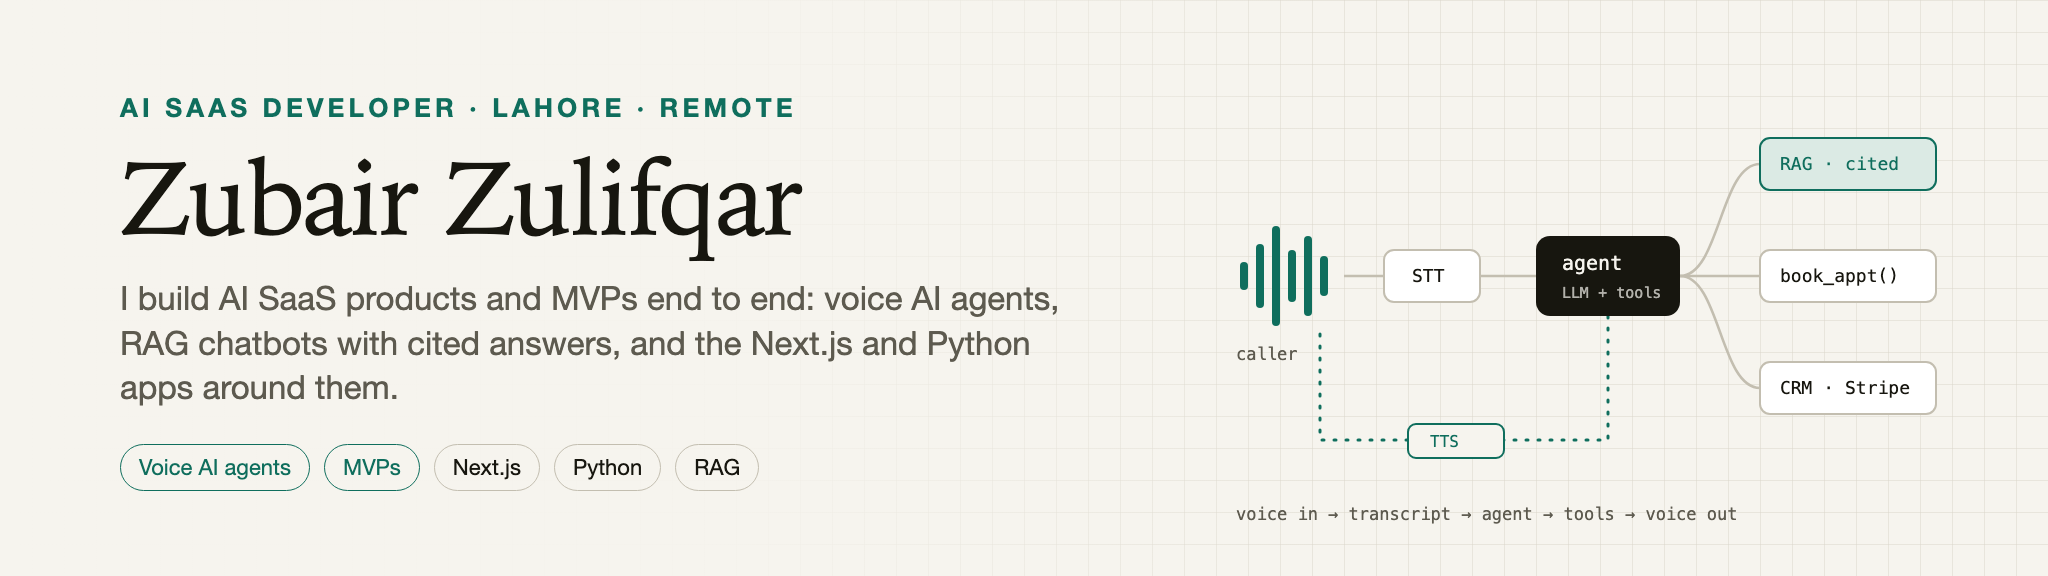
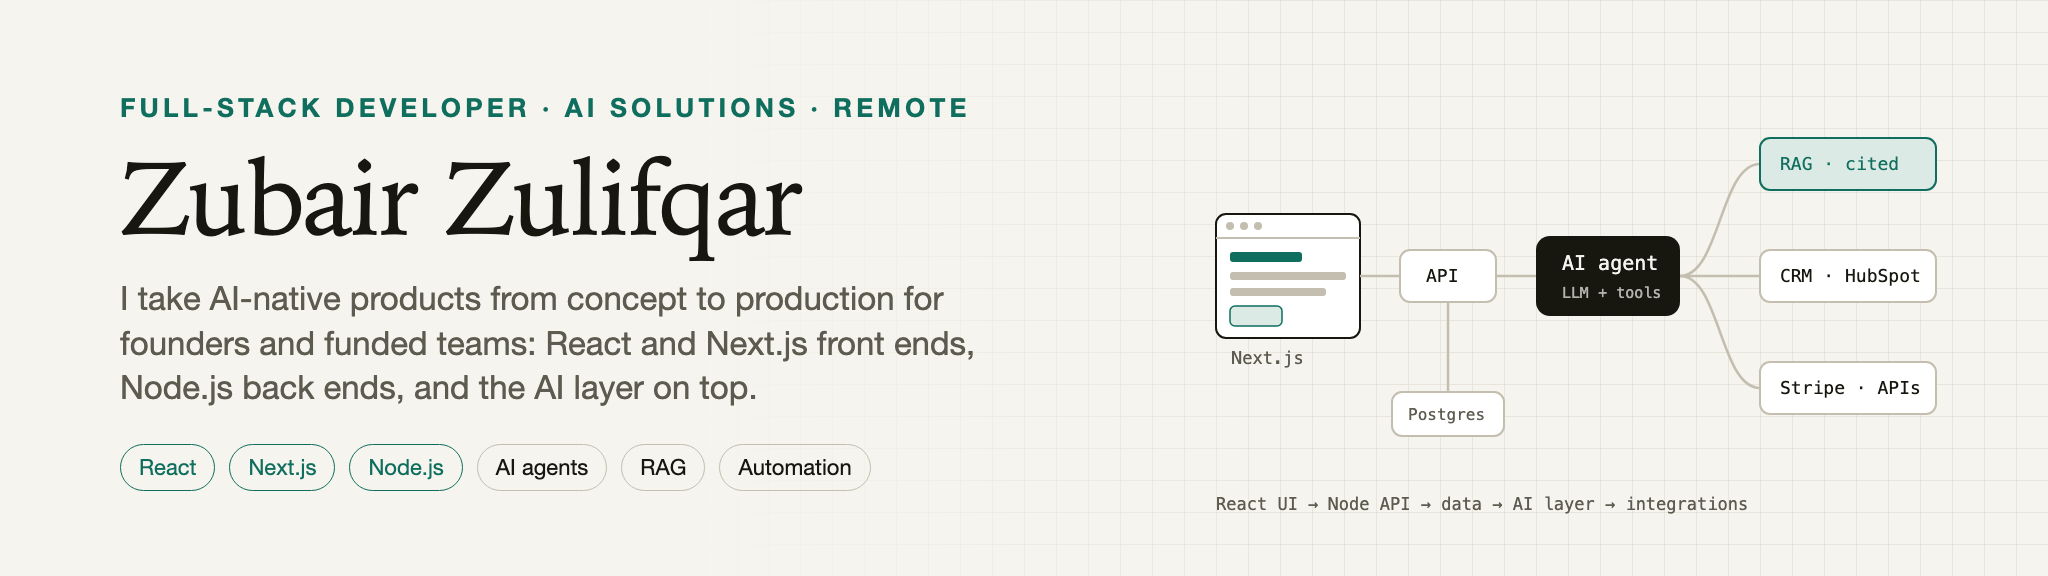
Align profile with the Full-Stack + AI Solutions positioning

diff --git a/header-src/header.html b/header-src/header.html
@@ -39,53 +39,54 @@
   <rect width="2048" height="576" fill="url(#g)"/>
   <rect width="1320" height="576" fill="url(#fade)"/>
 
-  <!-- voice in: waveform -->
-  <g fill="var(--accent)">
-    <rect x="1240" y="262" width="8" height="28" rx="4"/>
-    <rect x="1256" y="244" width="8" height="64" rx="4"/>
-    <rect x="1272" y="226" width="8" height="100" rx="4"/>
-    <rect x="1288" y="250" width="8" height="52" rx="4"/>
-    <rect x="1304" y="236" width="8" height="80" rx="4"/>
-    <rect x="1320" y="256" width="8" height="40" rx="4"/>
+  <!-- browser: Next.js app -->
+  <g>
+    <rect x="1216" y="214" width="144" height="124" rx="10" fill="var(--node)" stroke="var(--ink)" stroke-width="2"/>
+    <path d="M1216 238 H1360" stroke="var(--line-strong)" stroke-width="2"/>
+    <circle cx="1230" cy="226" r="4" fill="var(--line-strong)"/><circle cx="1244" cy="226" r="4" fill="var(--line-strong)"/><circle cx="1258" cy="226" r="4" fill="var(--line-strong)"/>
+    <rect x="1230" y="252" width="72" height="10" rx="3" fill="var(--accent)"/>
+    <rect x="1230" y="272" width="116" height="8" rx="3" fill="var(--line-strong)"/>
+    <rect x="1230" y="288" width="96" height="8" rx="3" fill="var(--line-strong)"/>
+    <rect x="1230" y="306" width="52" height="20" rx="5" fill="var(--accent-soft)" stroke="var(--accent)" stroke-width="1.5"/>
   </g>
-  <text x="1236" y="360" font-size="17" fill="var(--muted)">caller</text>
+  <text x="1232" y="364" font-size="17" fill="var(--muted)">Next.js</text>
 
-  <!-- pipeline links -->
+  <!-- links -->
   <g stroke="var(--line-strong)" stroke-width="2.5" fill="none">
-    <path d="M1344 276 H1384"/>
-    <path d="M1480 276 H1536"/>
+    <path d="M1360 276 H1400"/>
+    <path d="M1496 276 H1536"/>
+    <path d="M1448 302 V392"/>
     <path d="M1680 276 C1720 276 1720 164 1760 164"/>
     <path d="M1680 276 H1760"/>
     <path d="M1680 276 C1720 276 1720 388 1760 388"/>
   </g>
-  <path d="M1608 304 V440 H1320 V330" fill="none" stroke="var(--accent)" stroke-width="3" stroke-dasharray="2 10" stroke-linecap="round"/>
 
   <g font-size="18">
-    <rect x="1384" y="250" width="96" height="52" rx="10" fill="var(--node)" stroke="var(--line-strong)" stroke-width="2"/>
-    <text x="1412" y="282" fill="var(--ink)">STT</text>
+    <rect x="1400" y="250" width="96" height="52" rx="10" fill="var(--node)" stroke="var(--line-strong)" stroke-width="2"/>
+    <text x="1426" y="282" fill="var(--ink)">API</text>
+    <rect x="1392" y="392" width="112" height="44" rx="10" fill="var(--node)" stroke="var(--line-strong)" stroke-width="2"/>
+    <text x="1408" y="420" fill="var(--muted)" font-size="16">Postgres</text>
 
     <rect x="1536" y="236" width="144" height="80" rx="14" fill="var(--ink)"/>
-    <text x="1562" y="270" fill="var(--paper)" font-size="20">agent</text>
+    <text x="1562" y="270" fill="var(--paper)" font-size="20">AI agent</text>
     <text x="1562" y="298" fill="var(--paper)" font-size="15" opacity="0.7">LLM + tools</text>
 
     <rect x="1760" y="138" width="176" height="52" rx="10" fill="var(--accent-soft)" stroke="var(--accent)" stroke-width="2"/>
     <text x="1780" y="170" fill="var(--accent)">RAG · cited</text>
     <rect x="1760" y="250" width="176" height="52" rx="10" fill="var(--node)" stroke="var(--line-strong)" stroke-width="2"/>
-    <text x="1780" y="282" fill="var(--ink)">book_appt()</text>
+    <text x="1780" y="282" fill="var(--ink)">CRM · HubSpot</text>
     <rect x="1760" y="362" width="176" height="52" rx="10" fill="var(--node)" stroke="var(--line-strong)" stroke-width="2"/>
-    <text x="1780" y="394" fill="var(--ink)">CRM · Stripe</text>
+    <text x="1780" y="394" fill="var(--ink)">Stripe · APIs</text>
   </g>
-  <rect x="1408" y="424" width="96" height="34" rx="8" fill="var(--paper)" stroke="var(--accent)" stroke-width="2"/>
-  <text x="1430" y="447" font-size="16" fill="var(--accent)">TTS</text>
-  <text x="1236" y="520" font-size="17" fill="var(--muted)">voice in → transcript → agent → tools → voice out</text>
+  <text x="1216" y="510" font-size="17" fill="var(--muted)">React UI → Node API → data → AI layer → integrations</text>
 </svg>
 
 <div class="text">
-  <div class="eyebrow">AI SaaS Developer · Lahore · Remote</div>
+  <div class="eyebrow">Full-Stack Developer · AI Solutions · Remote</div>
   <h1>Zubair Zulifqar</h1>
-  <div class="tag">I build AI SaaS products and MVPs end to end: voice AI agents, RAG chatbots with cited answers, and the Next.js and Python apps around them.</div>
+  <div class="tag">I take AI-native products from concept to production for founders and funded teams: React and Next.js front ends, Node.js back ends, and the AI layer on top.</div>
   <div class="chips">
-    <span class="chip hl">Voice AI agents</span><span class="chip hl">MVPs</span><span class="chip">Next.js</span><span class="chip">Python</span><span class="chip">RAG</span>
+    <span class="chip hl">React</span><span class="chip hl">Next.js</span><span class="chip hl">Node.js</span><span class="chip">AI agents</span><span class="chip">RAG</span><span class="chip">Automation</span>
   </div>
 </div>
 <script>if (location.hash === '#dark') document.body.classList.add('dark');</script>

diff --git a/README.md b/README.md
@@ -1,14 +1,13 @@
 <picture>
   <source media="(prefers-color-scheme: dark)" srcset=".github/assets/header-dark.png">
-  <img src=".github/assets/header-light.png" alt="Zubair Zulifqar, AI SaaS Developer. A voice agent pipeline: caller audio goes through speech-to-text to an LLM agent that calls RAG, appointment booking and CRM tools, then answers by text-to-speech." width="100%">
+  <img src=".github/assets/header-light.png" alt="Zubair Zulifqar, Full-Stack Developer for AI solutions. A Next.js app calls a Node API backed by Postgres, which hands off to an AI agent connected to RAG, a HubSpot CRM and Stripe." width="100%">
 </picture>
 
-## AI SaaS Developer &nbsp;|&nbsp; Voice AI Agents &nbsp;|&nbsp; MVPs with Next.js, Python & RAG
+## Full-Stack Developer &nbsp;|&nbsp; React, Next.js, Node.js + AI Solutions
 
-I turn an AI product idea into a working SaaS: the voice or chat agent, the retrieval behind it, and the
-real application around it, with sign-in, teams, billing, an admin side, tests and deployment. Five years
-of full-stack engineering, currently **Lead Software Engineer at Pynwheel**, previously the technical lead
-of a workflow engine that runs millions of executions a day.
+I own the whole build, not a slice of it. Founders and funded teams bring me in to take AI-native products
+from concept to production: React and Next.js front ends, scalable Node.js back ends, and the AI layer on
+top (agents, RAG systems and automation workflows wired into real business logic, not demos).
 
 <p>
   <a href="https://www.upwork.com/freelancers/~01894c735c70746190"><img alt="Hire me on Upwork" src="https://img.shields.io/badge/Hire_me_on-Upwork-14a800?style=for-the-badge&logo=upwork&logoColor=white"/></a>
@@ -16,84 +15,85 @@ of a workflow engine that runs millions of executions a day.
   <a href="https://www.linkedin.com/in/zubair-zulfiqar-17413226b/"><img alt="LinkedIn" src="https://img.shields.io/badge/LinkedIn-0a66c2?style=for-the-badge&logo=linkedin&logoColor=white"/></a>
 </p>
 
-### What I build for clients
+### What I build
 
-| Service | What it includes |
-|---|---|
-| **Voice AI agents** | Receptionists and phone-style assistants that listen, understand and act: speech-to-text, an LLM agent with tool calls (book, look up, update), and natural text-to-speech. Hosted APIs or self-hosted open models. |
-| **AI SaaS MVPs** | From idea to a product people can sign up for: Next.js front end, Python or Node API, PostgreSQL, multi-tenant accounts, roles, Stripe billing and an admin dashboard. |
-| **RAG chatbots and knowledge assistants** | Answers grounded in your documents, websites or database, with citations, a confidence gate for questions they can't answer, and an embeddable widget. |
-| **AI features in an existing product** | Structured LLM outputs, AI agents and automations added to a running app, with human approval where it matters and logs you can audit. |
+- **AI-native products, concept to production**, for founders and funded teams
+- **Next.js and React web apps** on scalable **Node.js** back ends
+- **AI agents, RAG pipelines and conversational AI** for copilots, chatbots and internal tools
+- **CRM and workflow automation** with Zapier, Make and n8n, plus **Chrome extensions**
+- **Multi-tenant SaaS platforms** and internal tools
+- **API integrations and webhooks**: Stripe, HubSpot and other third-party services
+- **React Native and Flutter** mobile apps for iOS and Android
+- **AI-generated prototypes turned into clean, production-ready apps**
 
-### Featured projects
+### What I help fix
 
-**Voice AI**
+Messy AI-generated code that breaks with real users &nbsp;·&nbsp; weak architecture slowing a team down &nbsp;·&nbsp;
+performance problems hurting conversion &nbsp;·&nbsp; broken integrations between front end, back end and third
+parties &nbsp;·&nbsp; scalability problems before they become a crisis &nbsp;·&nbsp; unfinished apps that need a senior
+developer to get them over the line.
 
-- **[DentalVoice AI](https://github.com/Qubit-Labz/Dental-Receptionist-Voice-AI)** &nbsp;`Python` `FastAPI` `React` &nbsp;·&nbsp; *Qubit Labz team project*<br>
-  A voice receptionist for a dental clinic. Faster-Whisper transcribes the caller, an LLM agent with tool calls resolves dates and books the appointment, and Kokoro answers in a natural voice. The React front end has a live waveform, sign-in and an appointments view. It can run entirely on self-hosted open models.
-- **[Waivs.ai](https://github.com/Zubair-Zulifqar/Waivs-AI)** &nbsp;`Next.js` `Supabase` `Vertex AI`<br>
-  Voice to clinical notes for surgical teams. Browser recording with crash recovery, Google Speech-to-Text with speaker diarization, then a source-cited draft note from Gemini that a clinician must approve. Version history, word-level diffs and PDF export.
+### Client outcomes
 
-**RAG and AI agents**
+| Build | What I did | Result |
+|---|---|---|
+| **Tuck Advisors** (M&A advisory) | 300+ CRM automations, AI research on AWS Lambda, a Chrome extension across 40+ releases | One client sourced 1,500+ acquisition targets; the firm closed 100% of engagements in 2025 |
+| **Archyr** (venture deal flow) | Front end for a deal operating system: 0–100 scoring engine, Gmail and Affinity sync, AI briefs | A $600M+ AUM VC firm sources, scores and tracks deals in one workspace instead of four tools |
+| **REACH Pathways** (AI career platform) | Front end with a gamified skills map and an AI-assisted resume builder | First-generation students reach scholarships and jobs; the platform won the SXSW Pitch |
+| **Athena V2** (school transportation) | Multi-tenant, event-driven routing platform with live GPS tracking | District-specific rules replace rigid legacy configuration for a company serving 500+ districts |
+| **StoryHEAT** (campaign research) | Front end, authentication and a conversational AI feature | Campaign teams test messaging before production; campaigns reached 100M+ impressions |
+| **Waivs AI** (clinical documentation) | Real-time transcription on Google Vertex AI and Supabase | Structured clinical notes; the platform reports 42% fewer readmissions and 349% ROI |
 
-- **[Othego](https://github.com/Zubair-Zulifqar/Othego)** &nbsp;`TypeScript` `RAG` `Stripe`<br>
-  An AI support chatbot SaaS. Businesses connect websites, sitemaps and PDFs; Othego crawls, chunks and indexes them, then answers visitors through a 5 kB embeddable widget. Hybrid BM25 and vector search, reranking, cited streaming answers, lead capture, analytics and four Stripe plans.
-- **[Tuck Advisors Platform](https://github.com/Zubair-Zulifqar/Tuck-Advisors-Platform)** &nbsp;`TypeScript` `Python`<br>
-  An AI research and CRM platform for an M&A advisory: an AI research engine, explainable fit scoring, CRM automation with approval gates, and a Chrome extension that works inside LinkedIn and Gmail. Every AI claim is labelled *sourced*, *assessment* or *unknown*.
-- **[SmartPrep](https://github.com/Qubit-Labz/smartprep-ai)** &nbsp;`FastAPI` `Mistral` `WebRTC` &nbsp;·&nbsp; *Qubit Labz team project*<br>
-  A mock-interview simulator. The LLM generates questions from the role a user picks, scores text and video answers, and streams feedback.
+I've also led a launch that went on to close a **$1.99M investment round**, and taken a product from a
+**10% to an 80% conversion rate** through performance and UX work alone.
 
-**AI SaaS MVPs**
+### Code you can read
 
-- **[TestFiesta](https://github.com/Zubair-Zulifqar/TestFiesta)** &nbsp;`Vue` `Express` `PostgreSQL`<br>
-  Test management SaaS with an AI copilot that writes test cases from requirements. Each customer gets its own database, with relationship-based permissions, Jira and GitHub sync, and a CLI for CI results.
+Full-stack builds with READMEs, tests and architecture notes. They run on synthetic data with mocked
+integrations, so you can clone one and run it without any accounts or API keys.
+
+- **[Tuck Advisors Platform](https://github.com/Zubair-Zulifqar/Tuck-Advisors-Platform)** &nbsp;`TypeScript` `Python` `Chrome extension`<br>
+  Deal CRM, AI research engine, explainable fit scoring, CRM automation with approval gates, and a Manifest V3 side panel for LinkedIn and Gmail.
 - **[StoryHEAT](https://github.com/Zubair-Zulifqar/StoryHEAT)** &nbsp;`Next.js` `Python`<br>
-  Campaign message testing: AI drafts narratives from supplied facts, real audiences rate them in surveys, and a heatmap shows what landed. Includes a content assistant that drafts social posts from approved material.
+  AI narrative generation from supplied facts, audience surveys, a results heatmap, and a content assistant that only drafts from approved material.
+- **[Waivs AI](https://github.com/Zubair-Zulifqar/Waivs-AI)** &nbsp;`Next.js` `Supabase` `Vertex AI`<br>
+  Voice to source-cited clinical notes, with mandatory clinician approval enforced in the database, version history and PDF export.
+- **[Othego](https://github.com/Zubair-Zulifqar/Othego)** &nbsp;`TypeScript` `RAG` `Stripe`<br>
+  AI support chatbot SaaS: crawling and indexing, hybrid search with reranking, cited streaming answers, a 5 kB embeddable widget, unanswered-question logging and four Stripe tiers.
+- **[TestFiesta](https://github.com/Zubair-Zulifqar/TestFiesta)** &nbsp;`Vue` `Node.js` `Express` `PostgreSQL`<br>
+  Multi-tenant SaaS with a database per customer, relationship-based permissions, an AI test-design copilot, and Jira and GitHub integrations.
 - **[Authentic Spark](https://github.com/Zubair-Zulifqar/Authentic-Spark)** &nbsp;`Next.js` `Python` `GCP`<br>
-  An all-in-one operations platform for agencies: email planning, list cleaning, SMS compliance, ad review, QuickBooks invoicing and six AI agents with approval steps, deployed on Cloud Run.
+  Agency operations platform: email planning, list cleaning, SMS compliance, QuickBooks invoicing, Zapier-compatible webhooks and six AI agents with approval steps.
+- **[DentalVoice AI](https://github.com/Qubit-Labz/Dental-Receptionist-Voice-AI)** &nbsp;`Python` `FastAPI` `React` &nbsp;·&nbsp; *Qubit Labz team project*<br>
+  A voice AI receptionist: Faster-Whisper speech-to-text, a tool-calling LLM agent that books appointments, and Kokoro text-to-speech.
 
-Each repo has a README covering setup, architecture and status, plus automated tests, and runs locally in a mock mode with no paid API keys needed.
+### Core stack
 
-### What you get on a project
+| Area | Tools |
+|---|---|
+| **Frontend** | React, Next.js, Redux, TypeScript, JavaScript, Tailwind CSS, MUI, GSAP |
+| **Backend** | Node.js, Express, Next.js APIs, Python, GraphQL, REST, JWT, OAuth |
+| **Mobile** | React Native, Flutter |
+| **Data** | PostgreSQL, MySQL, MongoDB, DynamoDB, Firebase, Supabase |
+| **Cloud / DevOps** | AWS, Lambda, Vercel, Docker, Kubernetes, GitHub Actions, Serverless, Terraform |
+| **AI** | OpenAI, Google Vertex AI, Gemini, LangChain, RAG, embeddings, AI agents, voice agents, Claude Code, MCP |
+| **Automation** | Zapier, Make, n8n, CRM automation, Chrome extensions |
+| **Integrations** | Stripe, PayPal, Auth0, HubSpot, SendGrid, Twilio, WebSockets, webhooks |
 
-- A working product early, then steady progress you can click through, not just status updates.
-- Production basics from the start: authentication, roles, tenant isolation, billing, error handling and logging.
-- AI that is safe to put in front of customers: cited answers, structured outputs, human approval for anything that goes out, and no invented numbers.
-- Clean handover: documented setup, environment templates, Docker, and tests you can run.
+### How I work
 
-### Production experience
+Scope, prototype, production. Hourly or fixed scope, embedded in your team or running the build end to end.
+Clean, typed code, accessible UI, and measurable gains in speed, SEO and conversion. Frequent updates and
+clear communication.
 
-- **Lead Software Engineer, Pynwheel** (2026 to now): property-tech SaaS with interactive maps, shortest-path wayfinding and a self-guided tour mobile app on one React/TypeScript codebase.
-- **Senior Software Engineer, EZO** (2023 to 2026): led a workflow engine running millions of executions a day across three products, cut a 12–15 hour device sync to under an hour, and built AI automation that turns production errors into proposed pull requests.
-- AWS Certified Cloud Practitioner &nbsp;·&nbsp; Silver medal, ICPC Asia Topi Regional &nbsp;·&nbsp; BS Software Engineering, PUCIT
+Day job: **Lead Software Engineer at Pynwheel** (property-tech SaaS: React/TypeScript over Rails, interactive
+maps and a mobile tour app). Before that, **EZO**, where I led a workflow engine running millions of
+executions a day.
 
-### Stack
+### Tell me what you're building
 
-<p>
-  <img alt="Next.js" src="https://img.shields.io/badge/Next.js-17160f?style=flat-square&logo=nextdotjs&logoColor=white"/>
-  <img alt="React" src="https://img.shields.io/badge/React-17160f?style=flat-square&logo=react&logoColor=white"/>
-  <img alt="TypeScript" src="https://img.shields.io/badge/TypeScript-17160f?style=flat-square&logo=typescript&logoColor=white"/>
-  <img alt="Python" src="https://img.shields.io/badge/Python-17160f?style=flat-square&logo=python&logoColor=white"/>
-  <img alt="FastAPI" src="https://img.shields.io/badge/FastAPI-17160f?style=flat-square&logo=fastapi&logoColor=white"/>
-  <img alt="Node.js" src="https://img.shields.io/badge/Node.js-17160f?style=flat-square&logo=nodedotjs&logoColor=white"/>
-  <img alt="PostgreSQL" src="https://img.shields.io/badge/PostgreSQL-17160f?style=flat-square&logo=postgresql&logoColor=white"/>
-  <img alt="Supabase" src="https://img.shields.io/badge/Supabase-17160f?style=flat-square&logo=supabase&logoColor=white"/>
-  <img alt="Stripe" src="https://img.shields.io/badge/Stripe-17160f?style=flat-square&logo=stripe&logoColor=white"/>
-  <img alt="OpenAI" src="https://img.shields.io/badge/OpenAI-17160f?style=flat-square&logo=openai&logoColor=white"/>
-  <img alt="Claude" src="https://img.shields.io/badge/Claude-17160f?style=flat-square&logo=anthropic&logoColor=white"/>
-  <img alt="Gemini" src="https://img.shields.io/badge/Gemini-17160f?style=flat-square&logo=googlegemini&logoColor=white"/>
-  <img alt="LangChain" src="https://img.shields.io/badge/LangChain-17160f?style=flat-square&logo=langchain&logoColor=white"/>
-  <img alt="Whisper" src="https://img.shields.io/badge/Whisper_STT-17160f?style=flat-square"/>
-  <img alt="Docker" src="https://img.shields.io/badge/Docker-17160f?style=flat-square&logo=docker&logoColor=white"/>
-  <img alt="Google Cloud" src="https://img.shields.io/badge/Google_Cloud-17160f?style=flat-square&logo=googlecloud&logoColor=white"/>
-  <img alt="AWS" src="https://img.shields.io/badge/AWS-17160f?style=flat-square"/>
-</p>
-
-### Let's build yours
-
-Have an AI product idea or a voice agent to ship? Send me the brief on
-**[Upwork](https://www.upwork.com/freelancers/~01894c735c70746190)** and I'll reply with how I'd build it
-and a first milestone.
+Tell me what you're building or what's broken, and I'll tell you exactly how I'd approach it:
+**[message me on Upwork](https://www.upwork.com/freelancers/~01894c735c70746190)**.
 
 [Upwork](https://www.upwork.com/freelancers/~01894c735c70746190) &nbsp;·&nbsp; [Portfolio](https://zubair-zulfiqar.vercel.app) &nbsp;·&nbsp; [LinkedIn](https://www.linkedin.com/in/zubair-zulfiqar-17413226b/) &nbsp;·&nbsp; [Resume (PDF)](https://zubair-zulfiqar.vercel.app/Zubair_Zulfiqar_Resume.pdf)
 
